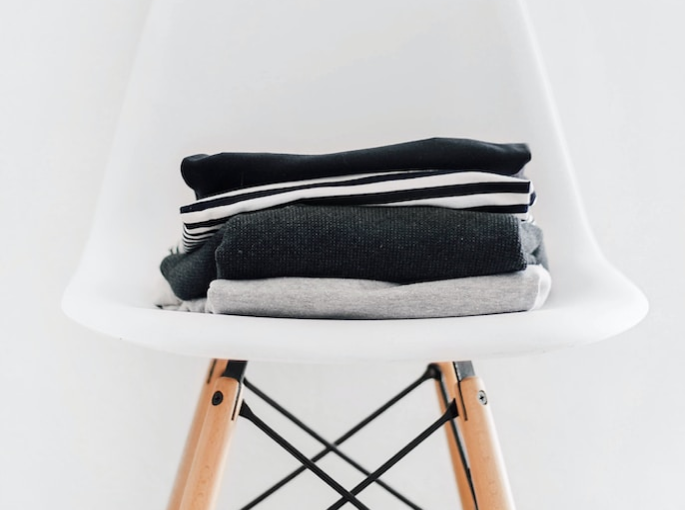
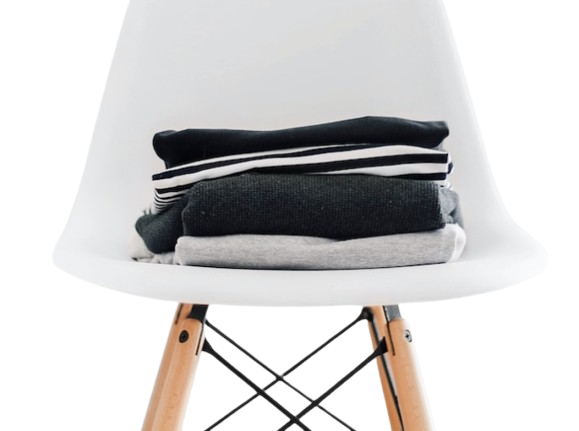
adicionando responsividade

diff --git a/style.css b/style.css
@@ -3,6 +3,9 @@
     padding: 0;
     box-sizing: border-box;
 }
+html, body {
+    overflow-x: hidden;
+}
 
 /* ESTILIZAÇÃO DO HEADER */
 
@@ -261,6 +264,16 @@ header {
     margin-top: 143px;
 }
 
+.Bg-cadeira{
+    height: 516px;
+}
+
+.Bg-cadeira img{
+    height: 100%;
+    width: auto;
+    object-fit: cover;
+}
+
 .topoSite .titulo {
     display: flex;
     flex-direction: column;
@@ -450,7 +463,8 @@ header {
     display: flex;
     flex-direction: column;
     gap: 20px;
-    min-width: 200px;
+    min-width: 280px;
+
 }
 
 .cup1Page .txt h3 {
@@ -737,7 +751,7 @@ button:hover {
 }
 
 
-
+/*RESPONSIVIDADE DO HEADER*/
 @media (max-width: 1300px) {
     .quebra-linha {
         display: block;
@@ -790,7 +804,7 @@ button:hover {
     }
 
     .topoHeader {
-        margin-top: 15px;
+        padding-top: 15px;
         margin-bottom: 15px;
         display: grid;
         grid-template-columns: 1fr 1fr 1fr; 
@@ -800,5 +814,74 @@ button:hover {
             "HAMBURGUER LOGO CARRINHO"
             "INPUT INPUT INPUT";
         align-items: center;
+    }
+}
+
+
+/*RESPONSIVIDADE DO CUP PAGE 1*/
+@media (max-width: 1300px) {
+    .cup1Page{
+        display: flex;
+        flex-direction: column;
+        min-height: 732px;
+        margin: 70px 0 0 0 !important;  
+        padding: 0 !important;
+    }
+    .cup1Page .xicaraImagem{
+        width: 100%;
+        max-width: 589px;
+        display: flex;
+        justify-content: center;
+    }
+    .cup1Page .xicaraImagem img{
+        width: 84%;
+        height: auto;
+    }
+}
+
+/*RESPONSIVIDADE DO CUP PAGE 2*/
+@media (max-width: 1300px) {
+    .cup2page{
+        display: flex;
+        flex-direction: column-reverse;
+        min-height: 717px;
+        width: 100%;
+        margin: 40px 0;
+        padding-top: 28px;
+        padding-bottom: 28px;
+        justify-content: center;
+    }
+
+    .cup2page .imgxicara2 img{
+        max-height: 349px;
+    }
+
+    .txt2 .iconL{
+        max-width: 3rem;
+    }
+    .txt2{
+        margin-bottom: 14px;
+        margin-right: 0;
+        min-width: 320px;
+        max-width: 500px
+    }
+
+    .txt2 p{
+        font-size: 12px;
+        margin: 0 0 0px 14px;
+        min-width: 240px;
+        
+    }
+    .textoeicon .title{
+        font-size:20px;
+        margin: 24px 0px 32px 0px;
+
+    }
+    .textoeicon{
+        height: auto;
+        margin-right: 20px;
+        margin-left: 20px;
+        align-items: center;
+        justify-content: center;
     }
 }

diff --git a/index.html b/index.html
@@ -265,7 +265,7 @@
     </header>
     <main>
         <section class="topoSite">
-            <div class="Bg-cadeira"><img src="">
+            <div class="Bg-cadeira">
                 <img src="img\bdCadeira.png">
             </div><!--Bg-cadeira-->
             <div class="titulo">
@@ -400,11 +400,10 @@
                     Donec sollicitudin euismod orci, auctor fringilla magna consequat interdum. Fusce sagittis elit a
                     libero commodo egestas efficitur id augue.</p>
             </div><!--txt-->
-
-
         </section><!--cup1Page-->
+
+
         <section class="cup2page">
-            <div class="total"></div><!--total-->
             <div class="textoeicon">
                 <div class="title">
                     <h3>LOREM IPSUM</h3>
